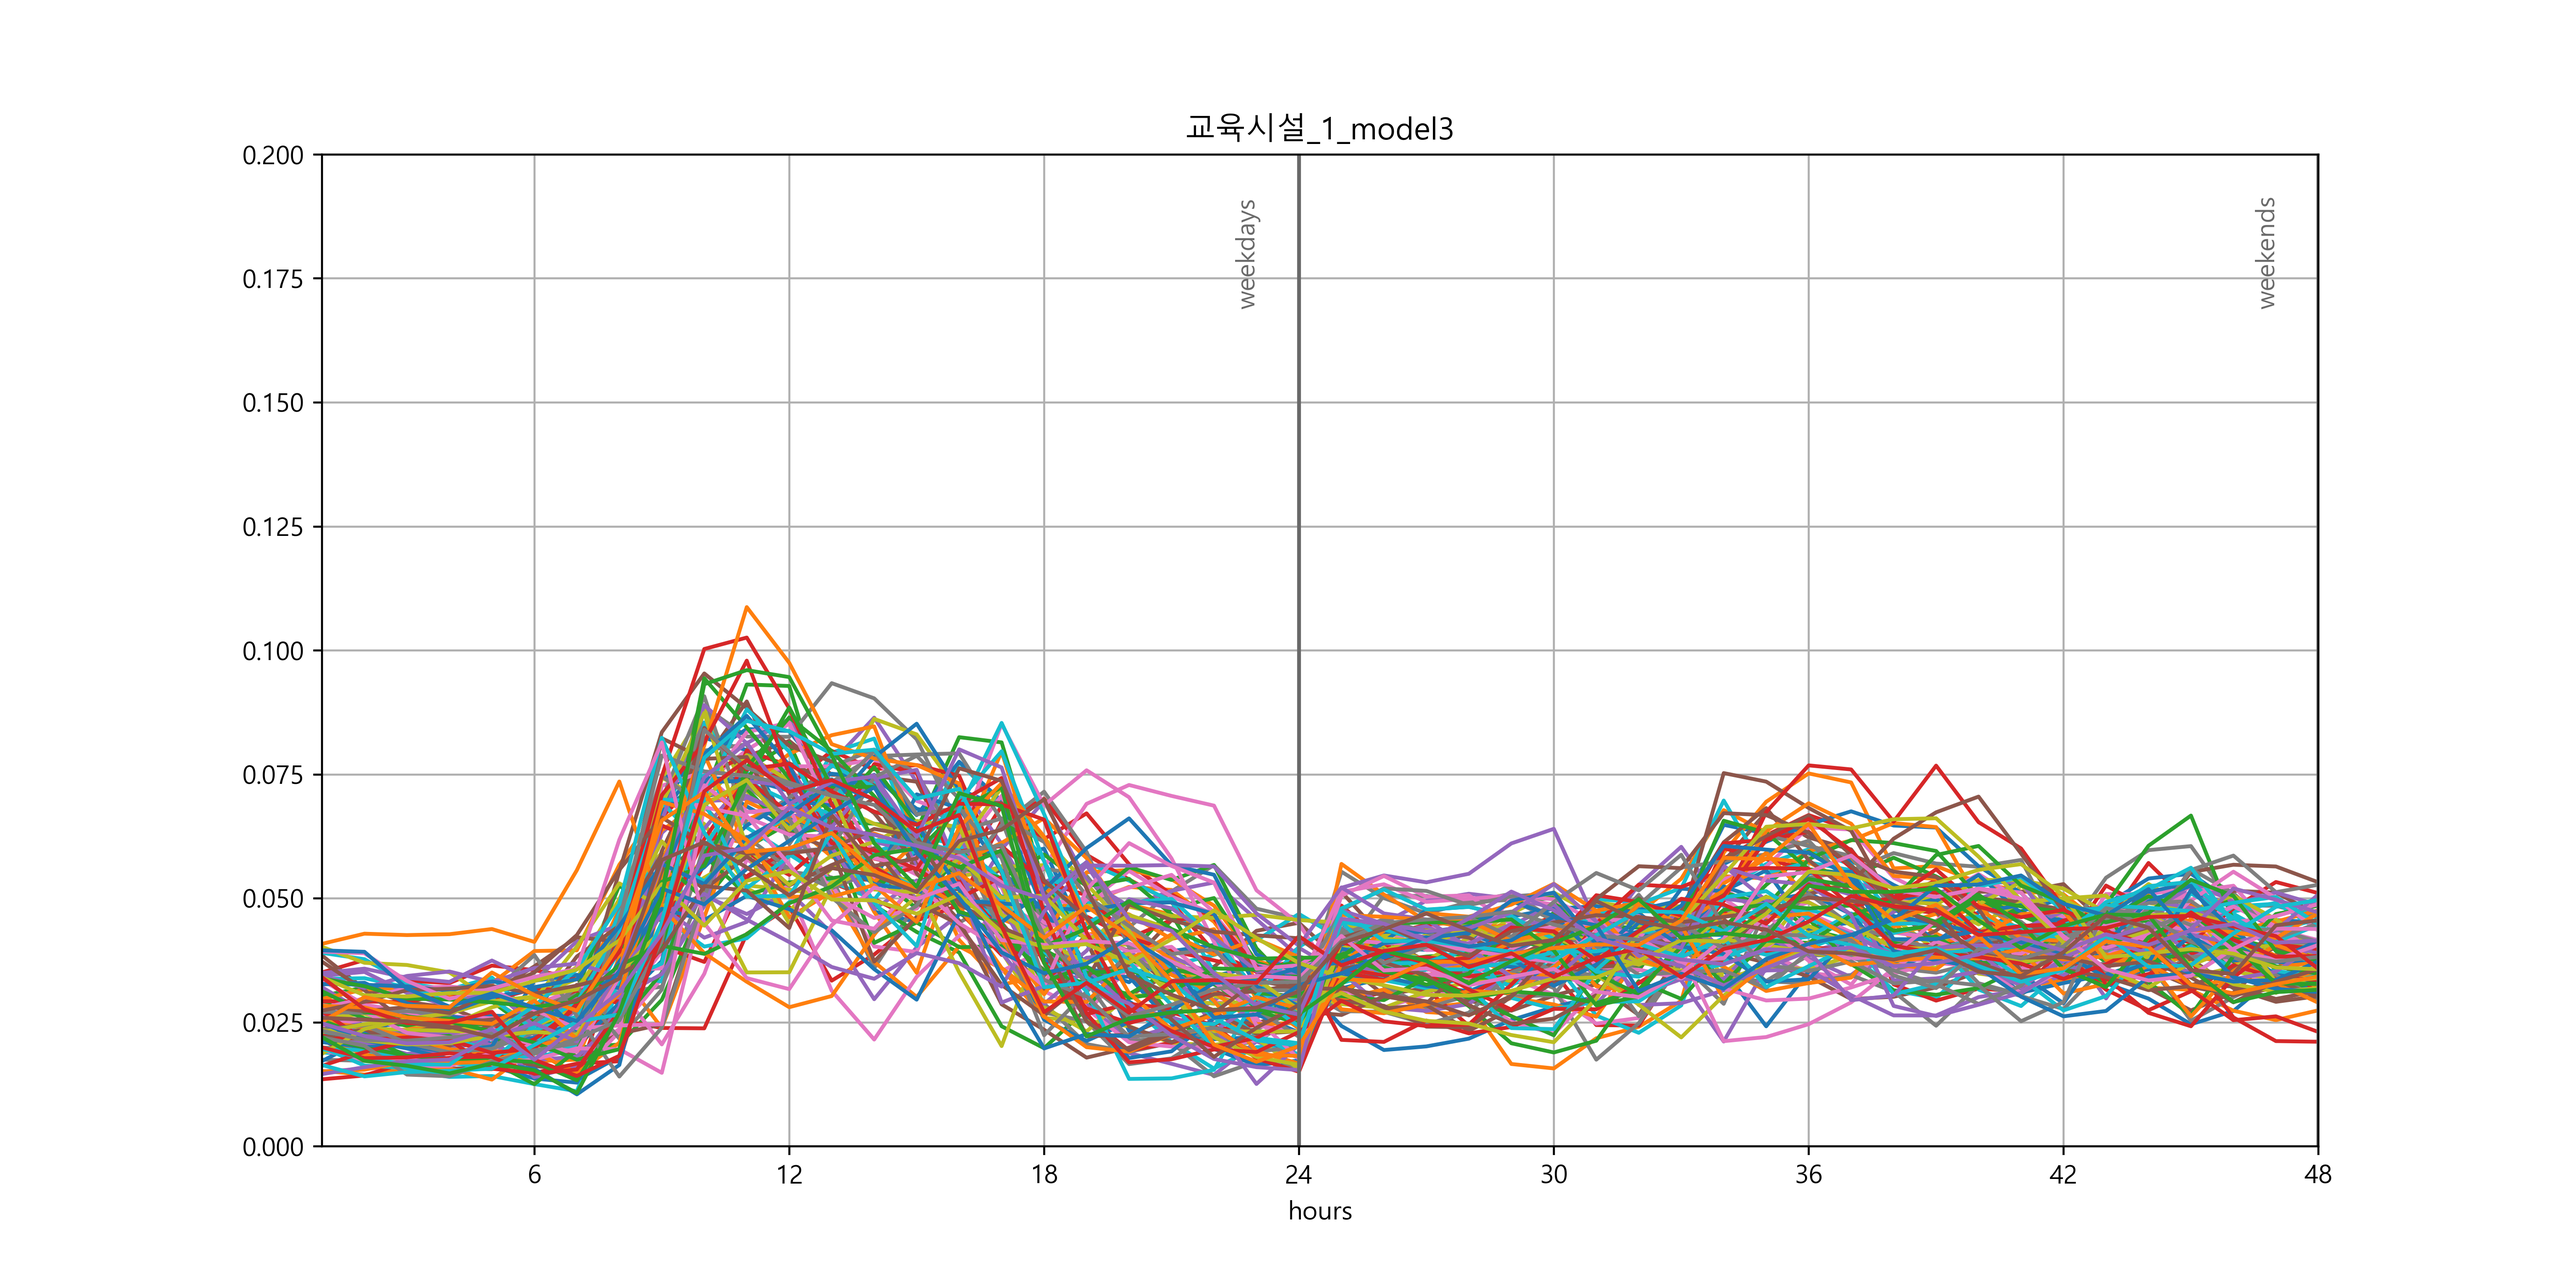
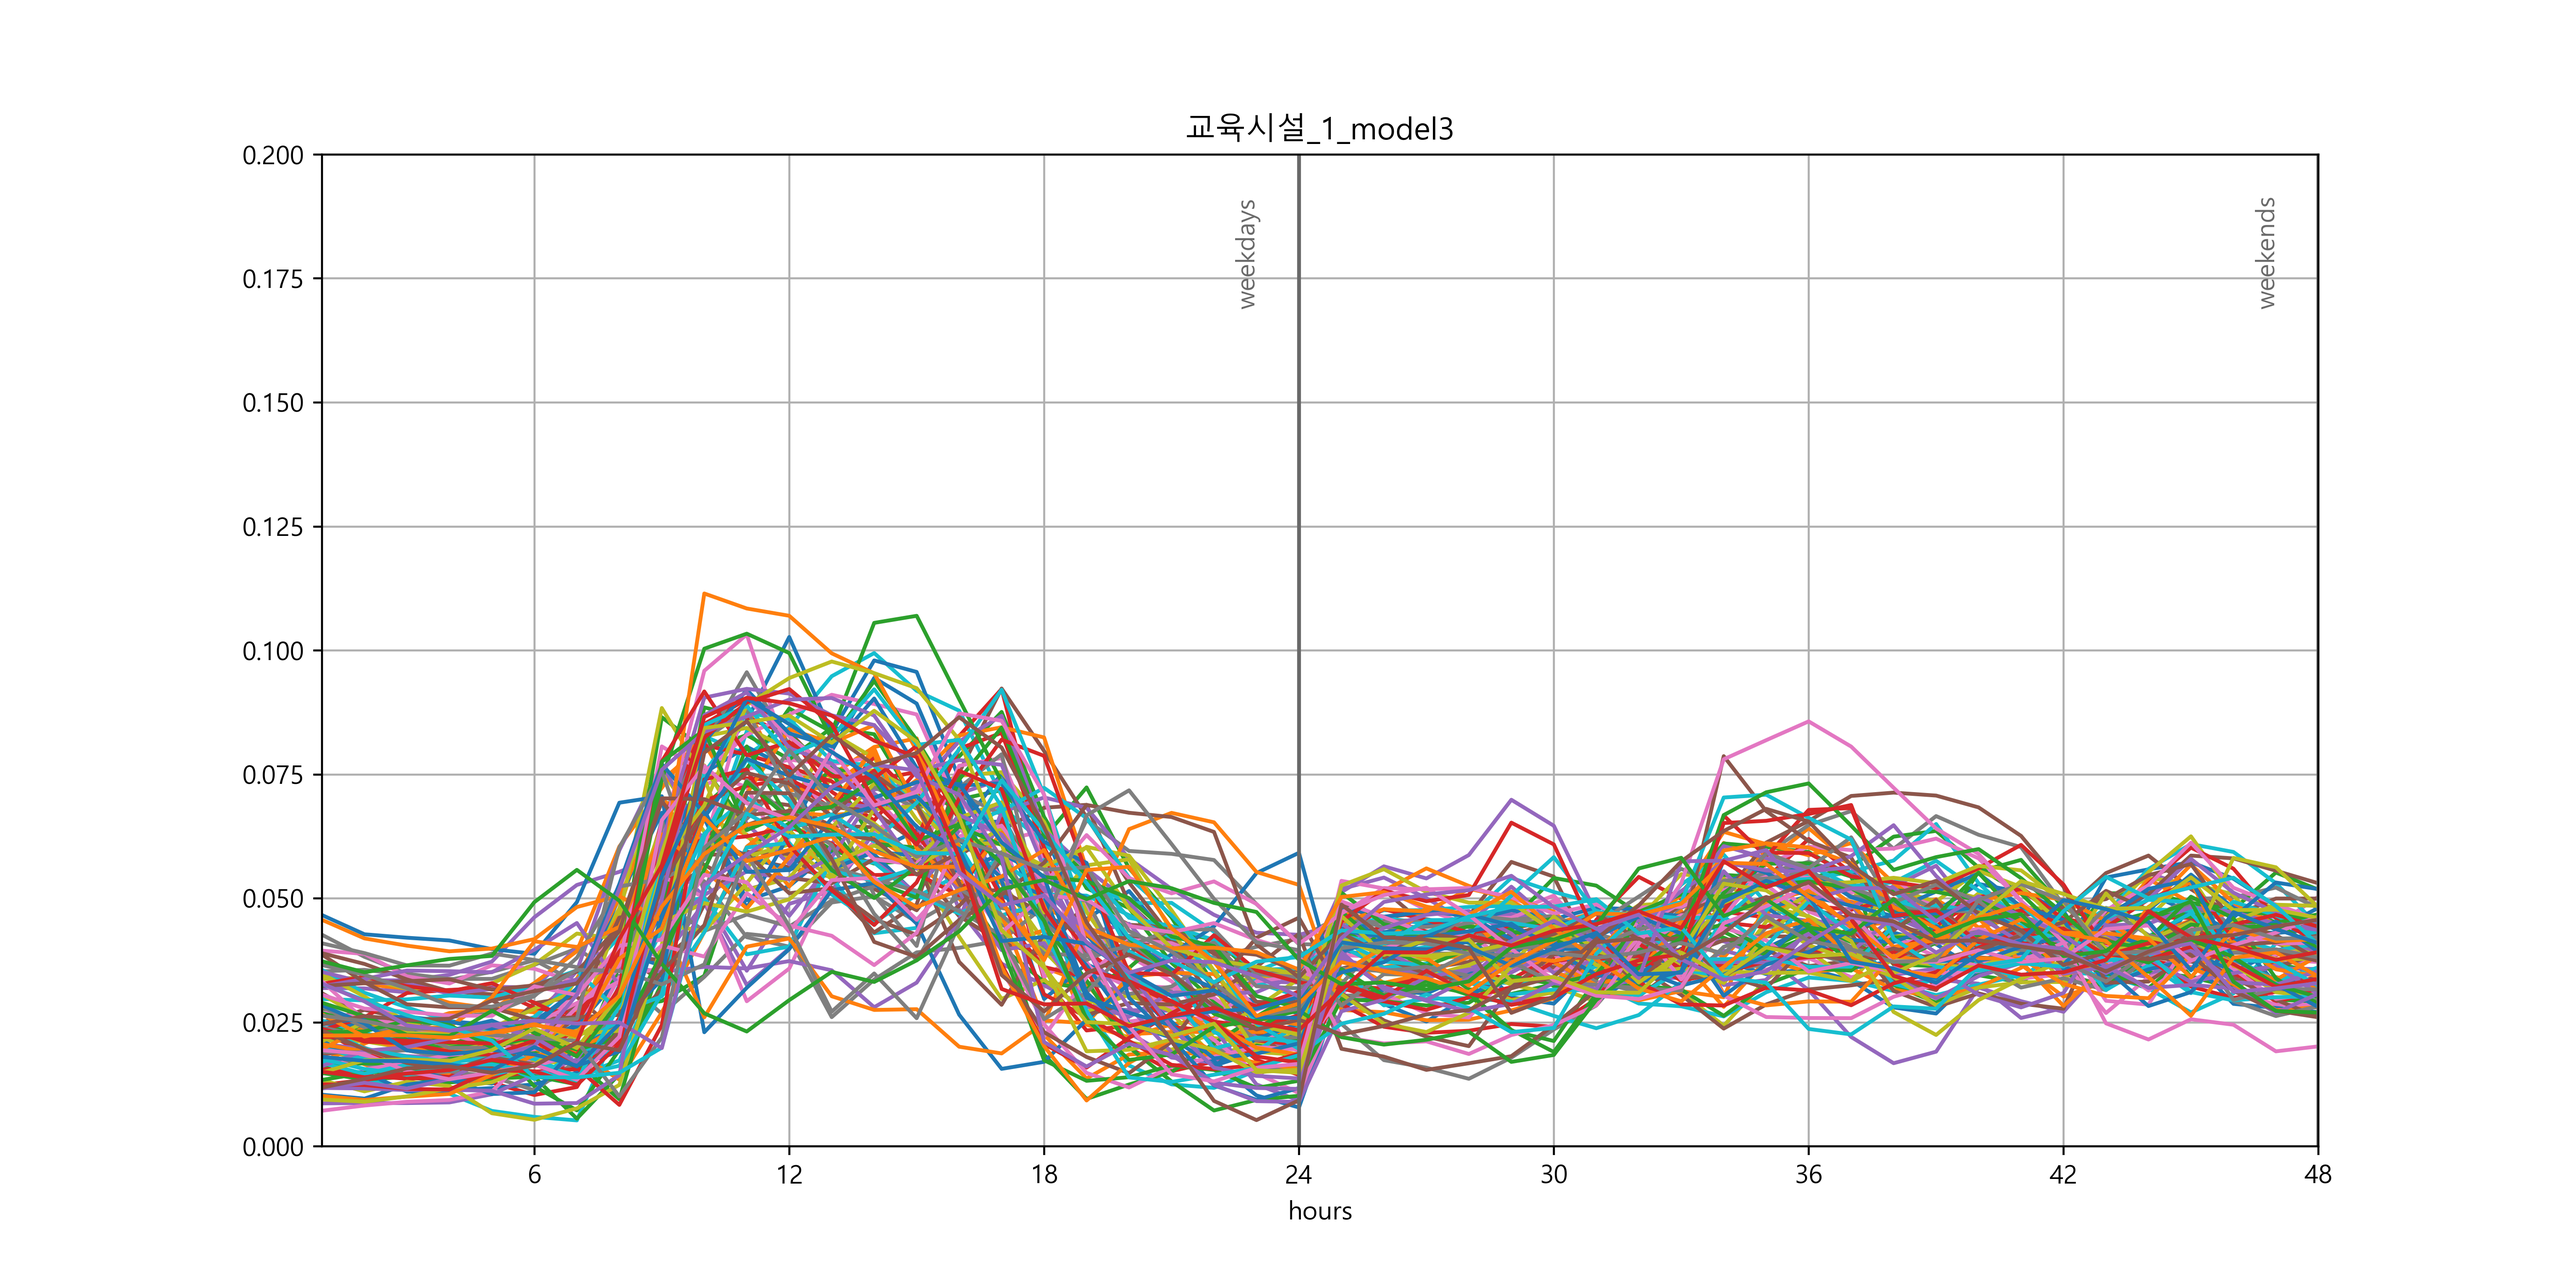
png

Changed region(s): [[0.125, 0.4661, 0.9062, 0.87]]

diff --git a/module/1_model/model_all_units_run.py b/module/1_model/model_all_units_run.py
@@ -45,9 +45,16 @@ use 'model_all_units.py' as one and only module
 import model_all_units as mu
 
 for facility in os.listdir(gp_dir) :
-	if (facility != '판매및숙박') & (facility != '교육시설') :
-		tdir = gp_dir + '\\' + facility
-		for group in range(2) :
+	for group in range(2) :
+		check = 0
+		if (facility == '교육시설') & (group == 1) :
+			check = 1
+			
+		if (facility == '업무시설') & (group == 1):
+			check = 1
+
+		if check == 1 :
+			tdir = gp_dir + '\\' + facility
 			print(facility, '\t', 'group number', group)
 			nmaindir = tdir + f'\\group_{group}'
 			model1_dir = nmaindir + '\\model1'

diff --git a/README.md b/README.md
@@ -19,13 +19,16 @@ able to check the sign of the parameter 's'
 
 
 ---
-problem arises when the scale value (st_week) is shown to be a negative value.
+problem arises when the scale value (st_week) is shown to be negative.
 st_week is made at previous lines, with random sampling code 'beta.rvs(alpha, beta, loc, scale, num)'
 
 adjusted code by adding while-loop until st_week is not negative.
-with the alpha, beta, loc, scale values given, have to aware that there are chances of the random sampled values to be negative.
+with the alpha, beta, loc, scale values given, have to aware that there are chances for the random sampled values to be negative.
 
 
+
+2. in making model2, with a little chance -
+sheet size can go beyond the limit size.
 
 ## facing problems
 
